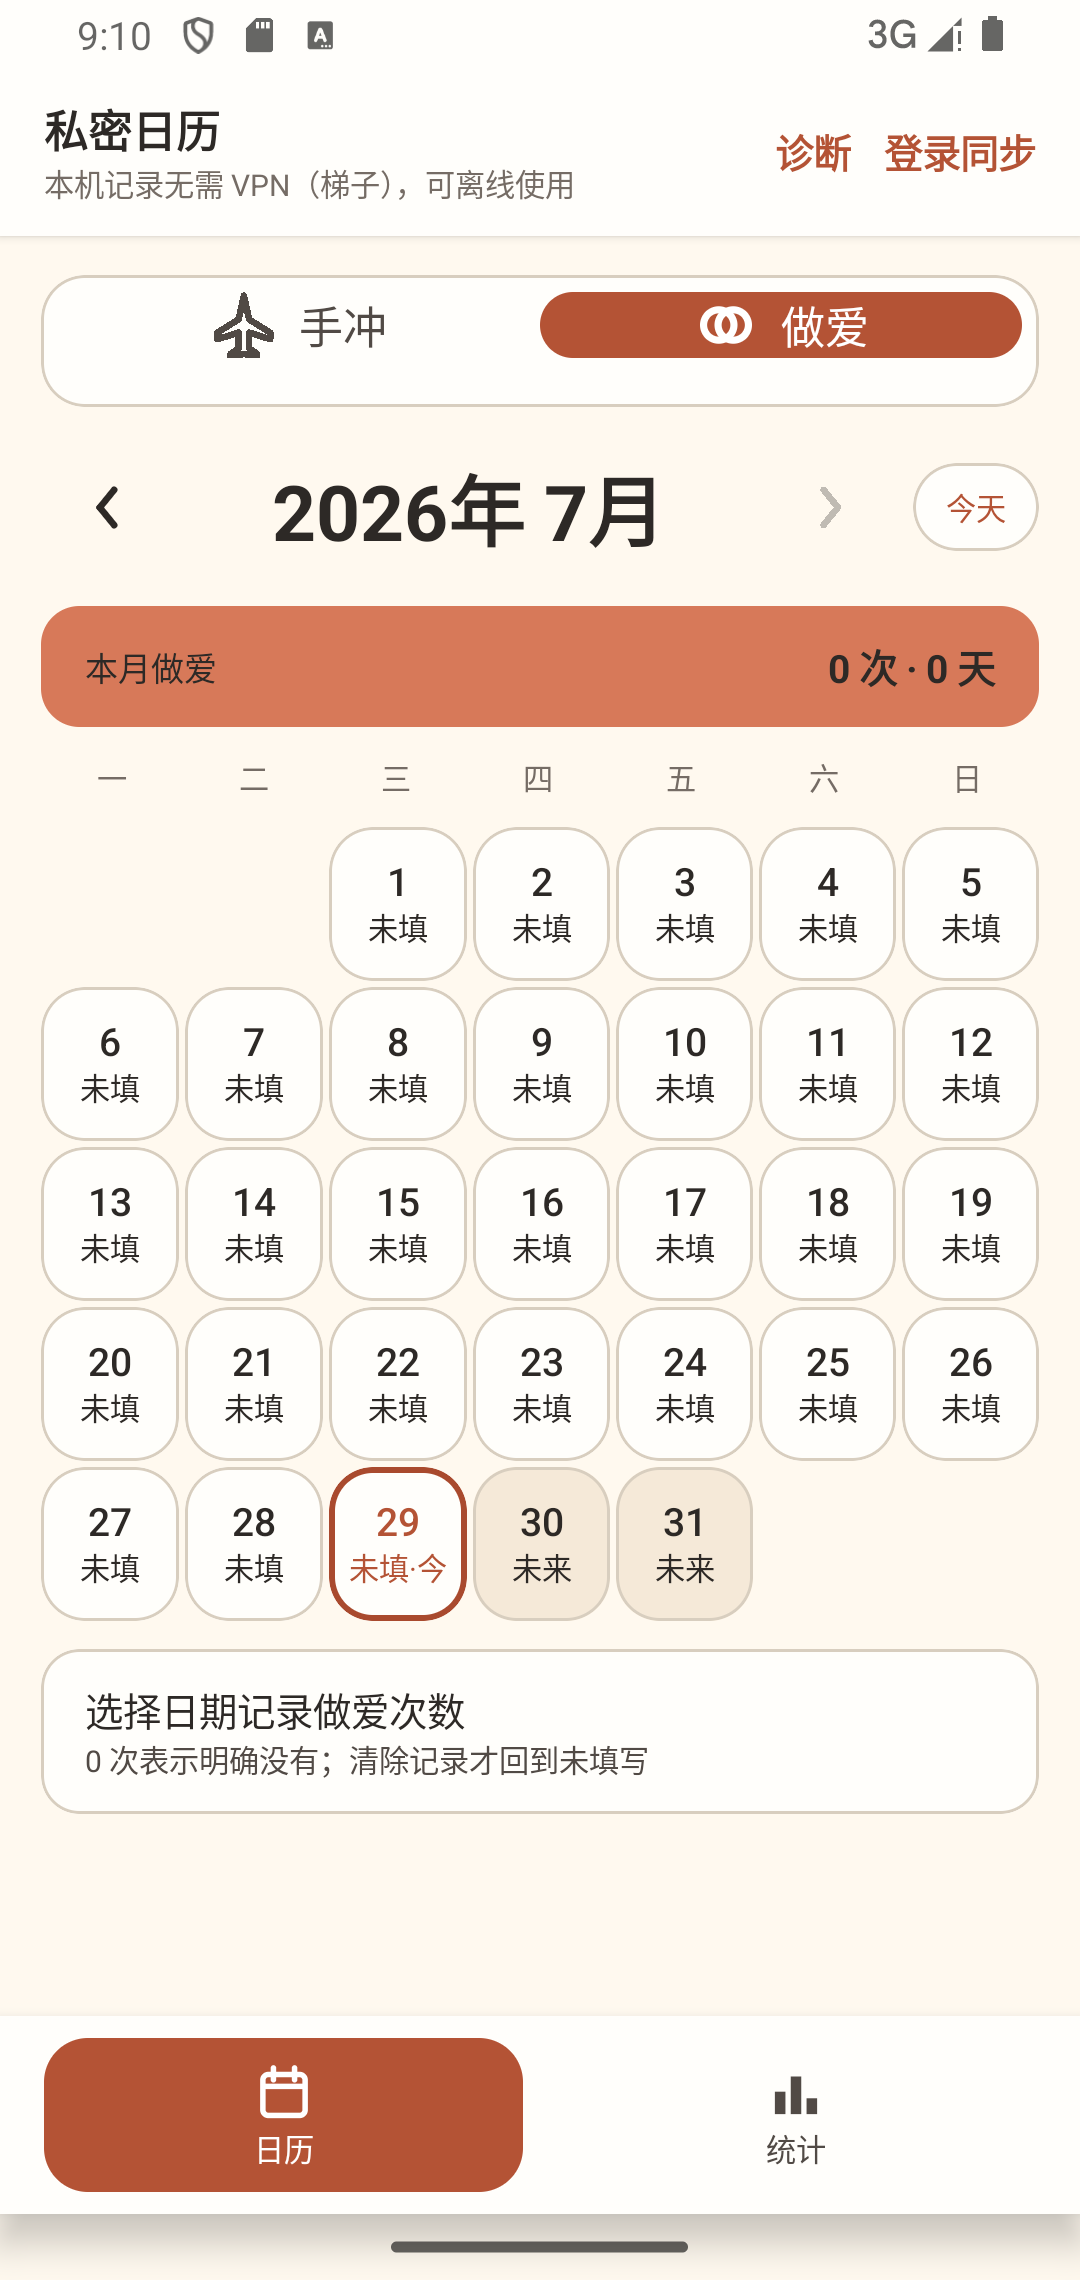
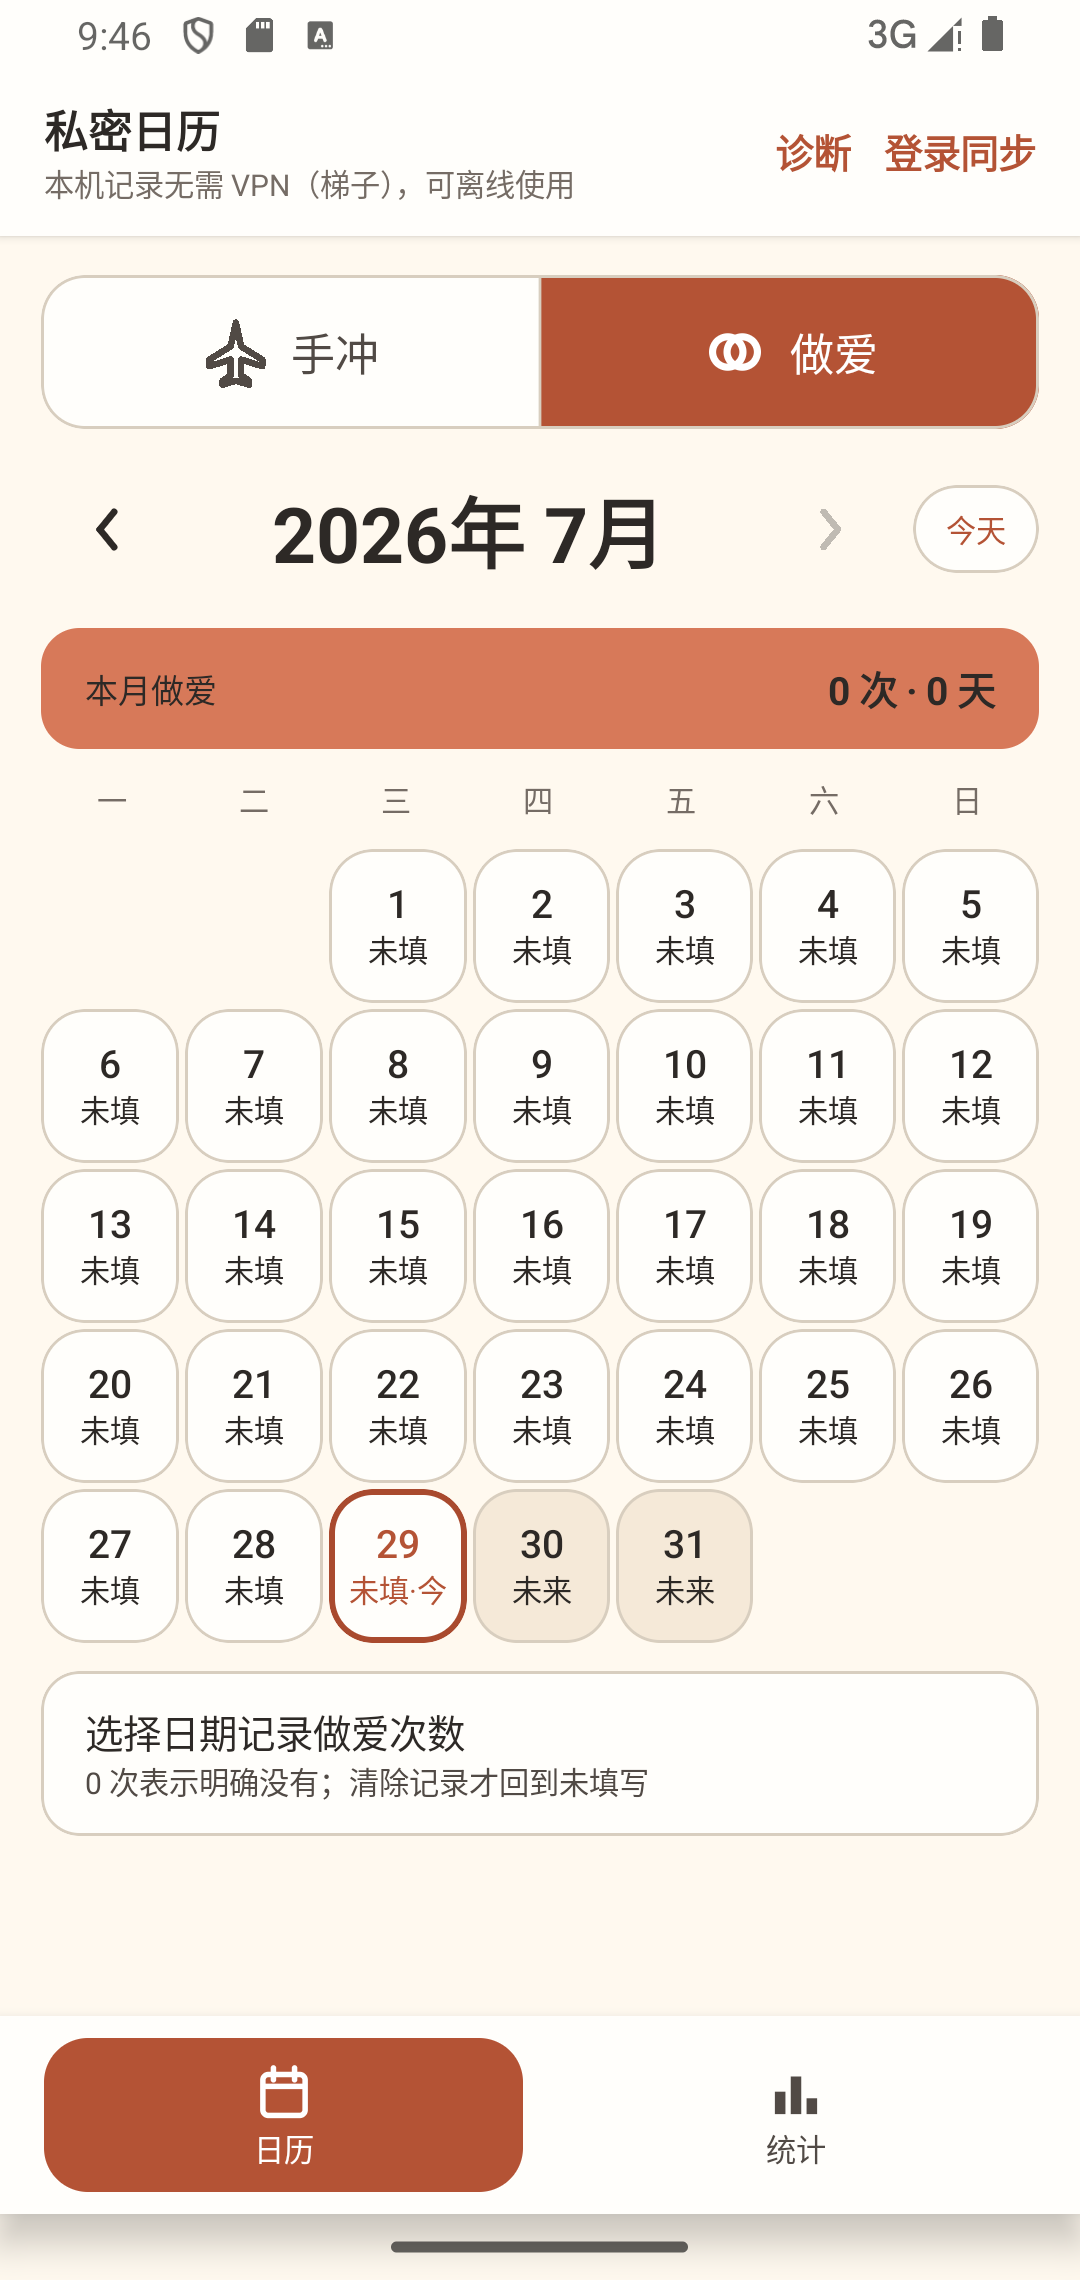
Use a single segmented module selector

diff --git a/app/src/main/java/io/github/litaog/dailyrecord/ui/components/DailyRecordComponents.kt b/app/src/main/java/io/github/litaog/dailyrecord/ui/components/DailyRecordComponents.kt
@@ -28,6 +28,7 @@ import androidx.compose.runtime.Composable
 import androidx.compose.ui.Alignment
 import androidx.compose.ui.Modifier
 import androidx.compose.ui.draw.clip
+import androidx.compose.ui.draw.drawWithContent
 import androidx.compose.ui.geometry.CornerRadius
 import androidx.compose.ui.geometry.Offset
 import androidx.compose.ui.geometry.Size
@@ -251,11 +252,21 @@ internal fun RecordModuleSelector(
     Row(
         modifier = modifier
             .fillMaxWidth()
-            .heightIn(min = 48.dp)
+            .height(56.dp)
+            .testTag("record_module_selector")
             .clip(RoundedCornerShape(16.dp))
             .background(Paper0)
             .border(1.dp, Neutral300, RoundedCornerShape(16.dp))
-            .padding(6.dp),
+            .drawWithContent {
+                drawContent()
+                val dividerWidth = 1.dp.toPx()
+                drawLine(
+                    color = Neutral300,
+                    start = Offset(size.width / 2f, 0f),
+                    end = Offset(size.width / 2f, size.height),
+                    strokeWidth = dividerWidth,
+                )
+            },
     ) {
         specs.forEach { spec ->
             val active = spec.module == selected
@@ -264,7 +275,6 @@ internal fun RecordModuleSelector(
                     .weight(1f)
                     .fillMaxHeight()
                     .testTag("record_module_${spec.module.name}")
-                    .clip(RoundedCornerShape(12.dp))
                     .background(if (active) Terracotta500 else Color.Transparent)
                     .clickable(role = Role.Tab) { onSelected(spec.module) }
                     .semantics {

diff --git a/app/src/androidTest/java/io/github/litaog/dailyrecord/ui/RecordModuleIntegrationTest.kt b/app/src/androidTest/java/io/github/litaog/dailyrecord/ui/RecordModuleIntegrationTest.kt
@@ -66,6 +66,10 @@ class RecordModuleIntegrationTest {
     fun moduleSelectorSplitsTheAvailableWidthAtTheExactCenter() {
         setDualModuleContent()
 
+        val selectorBounds = composeRule
+            .onNodeWithTag("record_module_selector")
+            .fetchSemanticsNode()
+            .boundsInRoot
         val handBrewBounds = composeRule
             .onNodeWithTag("record_module_HandBrew")
             .fetchSemanticsNode()
@@ -75,8 +79,15 @@ class RecordModuleIntegrationTest {
             .fetchSemanticsNode()
             .boundsInRoot
 
-        assertEquals(handBrewBounds.width, sexBounds.width, 0.5f)
+        assertEquals(selectorBounds.width / 2f, handBrewBounds.width, 0.5f)
+        assertEquals(selectorBounds.width / 2f, sexBounds.width, 0.5f)
+        assertEquals(selectorBounds.left, handBrewBounds.left, 0.5f)
+        assertEquals(selectorBounds.top, handBrewBounds.top, 0.5f)
+        assertEquals(selectorBounds.bottom, handBrewBounds.bottom, 0.5f)
         assertEquals(handBrewBounds.right, sexBounds.left, 0.5f)
+        assertEquals(selectorBounds.top, sexBounds.top, 0.5f)
+        assertEquals(selectorBounds.right, sexBounds.right, 0.5f)
+        assertEquals(selectorBounds.bottom, sexBounds.bottom, 0.5f)
     }
 
     private fun setDualModuleContent() {

diff --git a/docs/product/audit/2026-07-28-consistency-hardening/README.md b/docs/product/audit/2026-07-28-consistency-hardening/README.md
@@ -26,7 +26,7 @@
 5. 清除确认继续使用项目自有弹窗，不回退到系统默认 `AlertDialog`。
 6. 诊断标题为 `Private Calendar diagnostics`，后台同步 Worker/Scheduler 也使用通用命名，不再把双模块应用写成 Hand Brew Calendar。
 7. 连续五次冷启动为 2516–3259 ms，Crash Buffer 和应用 FATAL/ANR 检索均为空。
-8. 2026-07-29 根据真机反馈修正模块选择器：两个选项严格平分可用宽度并在外框正中心相接；选中底色完整覆盖对应内半区，图标与文字组合居中，图标由 20 dp 放大至 24 dp，文字由 12 sp 放大至 16 sp。Android 边界测试和左右选中态截图回归均通过。
+8. 2026-07-29 根据真机反馈把模块选择器改为单层分段控件：唯一的外层大圆角矩形由中线严格分成两个完整半区，删除内层胶囊、内缩留白和单独圆角；选中底色与点击范围都从外框边缘覆盖到中线，外侧圆角只由唯一外框裁剪。图标与文字组合居中，图标由 20 dp 放大至 24 dp，文字由 12 sp 放大至 16 sp。Android 边界测试和左右选中态截图回归均通过。
 
 ## 代码与安全结果
 
@@ -49,7 +49,7 @@
 - [`01-calendar.png`](01-calendar.png)：局部统一后的双模块日历。
 - [`02-statistics-sex.png`](02-statistics-sex.png)：移除重复模块标签后的做爱统计页。
 - [`03-clear-dialog.png`](03-clear-dialog.png)：项目自有清除确认弹窗。
-- [`04-module-selector-equal-halves.png`](04-module-selector-equal-halves.png)：右侧模块选中时严格占据外框内半区，图标与文字在各自半区居中。
+- [`04-module-selector-equal-halves.png`](04-module-selector-equal-halves.png)：单层选择器右侧选中时，颜色与点击范围占满唯一外框的完整半区。
 
 ## 已知边界
 
